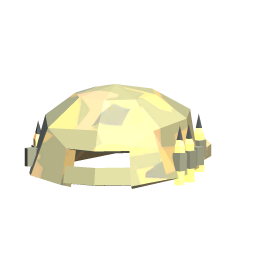
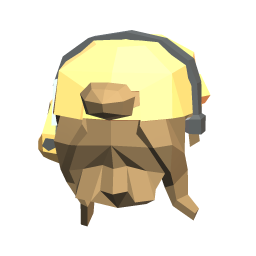
Fit Relict helmet and hide native hair under headgear

diff --git a/unity-client/Assets/Scripts/Game/RoaApocalypseCharacterSkin.cs b/unity-client/Assets/Scripts/Game/RoaApocalypseCharacterSkin.cs
@@ -32,6 +32,7 @@ namespace RealmOfAshes.Game
         private GameObject _backpack;
         private GameObject _helmet;
         private GameObject _helmetPrefab;
+        private readonly List<GameObject> _nativeHair = new List<GameObject>();
         private readonly List<GameObject> _footwear = new List<GameObject>();
         private string _footwearId;
 
@@ -39,6 +40,16 @@ namespace RealmOfAshes.Game
         public string ActiveArmorId => _armorId;
         public int ActiveArmorParts => _armorParts.Count;
         public GameObject ActiveHelmetPrefab => _helmetPrefab;
+        public bool AnyNativeHairVisible
+        {
+            get
+            {
+                foreach (GameObject hair in _nativeHair)
+                    if (hair != null && hair.activeSelf) return true;
+                return false;
+            }
+        }
+        public int NativeHairCount => _nativeHair.Count;
         public string ActiveFootwearId => _footwearId;
         public int ActiveFootwearParts => _footwear.Count;
 
@@ -100,6 +111,7 @@ namespace RealmOfAshes.Game
             Bounds oldBounds = bodyRenderer != null
                 ? bodyRenderer.bounds : WorldBounds(sourceRenderers);
 
+            _nativeHair.Clear();
             _visual = Instantiate(prefab, transform, false);
             _visual.name = RoaApocalypseVisuals.ChildName;
             RoaApocalypseVisuals.SetNativeWorldScale(_visual.transform, prefab.transform.localScale);
@@ -117,6 +129,10 @@ namespace RealmOfAshes.Game
             foreach (Renderer renderer in _visual.GetComponentsInChildren<Renderer>(true))
             {
                 string name = renderer.name;
+                // A character can load while its owner is hidden or prewarmed.
+                // Keep authored hair even when the outer actor is inactive.
+                if (name.Contains("_Hair_") && renderer.enabled && renderer.gameObject.activeSelf)
+                    _nativeHair.Add(renderer.gameObject);
                 if (name.Contains("Backpack") || name.Contains("Bedroll")
                     || name.Contains("SupplyBag") || name.Contains("Helmet")
                     || name.Contains("_Hat_") || name.Contains("_Mask_"))
@@ -165,6 +181,7 @@ namespace RealmOfAshes.Game
                     _visual.transform.position += offset;
                 }
                 foreach (Renderer renderer in originalRenderers) renderer.enabled = false;
+                RefreshNativeHair();
                 return true;
             }
             foreach (Renderer renderer in originalRenderers) renderer.enabled = true;
@@ -221,6 +238,7 @@ namespace RealmOfAshes.Game
                 RoaApocalypseVisuals.SetNativeWorldScale(_visual.transform, _basePrefab.transform.localScale);
             RefreshArmor();
             RefreshAccessories();
+            RefreshNativeHair();
             foreach (BonePair pair in _bones)
                 if (pair.Source != null && pair.Target != null)
                     pair.Target.localRotation = pair.TargetRest;
@@ -351,6 +369,20 @@ namespace RealmOfAshes.Game
                 RoaApocalypseModels.BackpackAttachment, "Spine_03");
             SetAccessory(ref _helmet, helmetPrefab != null, helmetPrefab, "Head");
             RefreshFootwear();
+        }
+
+        private void RefreshNativeHair()
+        {
+            // The animated pack body has its own hair mesh. The character's
+            // appearance controller already knows whether a loaded helmet or
+            // hood covers the original hair, so mirror that state here.
+            SetNativeHairVisible(_view == null || _view.AnyHairVisible);
+        }
+
+        public void SetNativeHairVisible(bool visible)
+        {
+            foreach (GameObject hair in _nativeHair)
+                if (hair != null && hair.activeSelf != visible) hair.SetActive(visible);
         }
 
         private void RefreshFootwear()

diff --git a/unity-client/Assets/Editor/RoaFreeItemProbe.cs b/unity-client/Assets/Editor/RoaFreeItemProbe.cs
@@ -477,6 +477,9 @@ namespace RealmOfAshes.EditorTools
             Animation animation=character.GetComponentInChildren<Animation>(true);
             int poseSamples=0, coverageSamples=0;
             float maxHeadSlip=0;
+            var skin=character.GetComponent<RoaApocalypseCharacterSkin>();
+            Check(skin!=null,"PolygonApocalypse body absent during helmet review");
+            if(bodyKey.StartsWith("male_")) Check(skin.NativeHairCount>0,"Native male hair absent before helmet review");
             await character.EquipWeapon(Origin, "");
             for(int outfit=0; outfit<helmets.Length+armor.Length; outfit++)
             {
@@ -490,6 +493,15 @@ namespace RealmOfAshes.EditorTools
                 await Task.Yield();
                 Check(character.HasLoadedEquipment("helmet",helmet) && character.HasLoadedEquipment("boots",boot),"Gear not ready "+bodyKey);
                 Check(!character.AnyHairVisible,"Hair protrudes through helmet");
+                Check(!skin.AnyNativeHairVisible,"PolygonApocalypse hair protrudes through helmet");
+                if(helmet=="preWarHelmet")
+                {
+                    GameObject nativeHelmet=skin.ActiveHelmetPrefab;
+                    Check(nativeHelmet==RoaApocalypseModels.Item(helmet),"Relict uses the wrong pack helmet");
+                    var filter=nativeHelmet.GetComponentInChildren<MeshFilter>(true);
+                    Check(filter!=null && filter.sharedMesh.bounds.size.y>=.3f,
+                        "Relict helmet is too flat at its authored size");
+                }
                 var renderers=new List<SkinnedMeshRenderer>();
                 character.CollectEquipmentRenderers(renderers);
                 foreach(string id in new[]{helmet,boot})
@@ -585,6 +597,7 @@ namespace RealmOfAshes.EditorTools
             }
             await character.EquipItems(Origin,new JObject());
             Check(character.AnyHairVisible,"Removing helmet did not restore hair");
+            if(skin.NativeHairCount>0) Check(skin.AnyNativeHairVisible,"Removing helmet did not restore PolygonApocalypse hair");
             Check(!character.HasLoadedEquipment("helmet",helmets[1]),"Removed gear remained visible");
             return new JObject { ["body"]=bodyKey, ["helmetModels"]=helmets.Length, ["bootModels"]=boots.Length,
                 ["armorCombinations"]=armor.Length, ["animationPoses"]=poseSamples, ["footCoverageRays"]=coverageSamples,

diff --git a/unity-client/Assets/Editor/RoaApocalypseModelCatalogBuilder.cs b/unity-client/Assets/Editor/RoaApocalypseModelCatalogBuilder.cs
@@ -136,7 +136,7 @@ namespace RealmOfAshes.EditorTools
             AddItems(itemPaths, "Characters/Attachments/SM_Chr_Attach_FootballHelmet_01", "helmet");
             AddItems(itemPaths, "Characters/Attachments/SM_Chr_Attach_Soldier_Male_Helmet_01", "tacticalHelmet");
             AddItems(itemPaths, "Characters/Attachments/SM_Chr_Attach_RiotCop_Male_Helmet_01", "assaultHelmet");
-            AddItems(itemPaths, "Characters/Attachments/SM_Chr_Attach_Hunter_Male_Hat_01", "preWarHelmet");
+            AddItems(itemPaths, "Characters/Attachments/SM_Chr_Attach_Scout_Female_Hat_01", "preWarHelmet");
             foreach (RoaApocalypseModels.ArmorEntry row in armor)
                 itemPaths[row.itemId] = "Characters/" + row.malePrefab.name;
             var items = new List<RoaApocalypseModels.ItemEntry>();

diff --git a/unity-client/Assets/Scripts/Game/RoaCharacterView.cs b/unity-client/Assets/Scripts/Game/RoaCharacterView.cs
@@ -1147,6 +1147,7 @@ namespace RealmOfAshes.Game
             bool showHair = !covered && hairId != "shaved";
             foreach (GameObject hairObject in _hairObjects)
                 if (hairObject != null && hairObject.activeSelf != showHair) hairObject.SetActive(showHair);
+            if (_apocalypseSkin != null) _apocalypseSkin.SetNativeHairVisible(showHair);
         }
 
         private static Color HairColor(string id)
